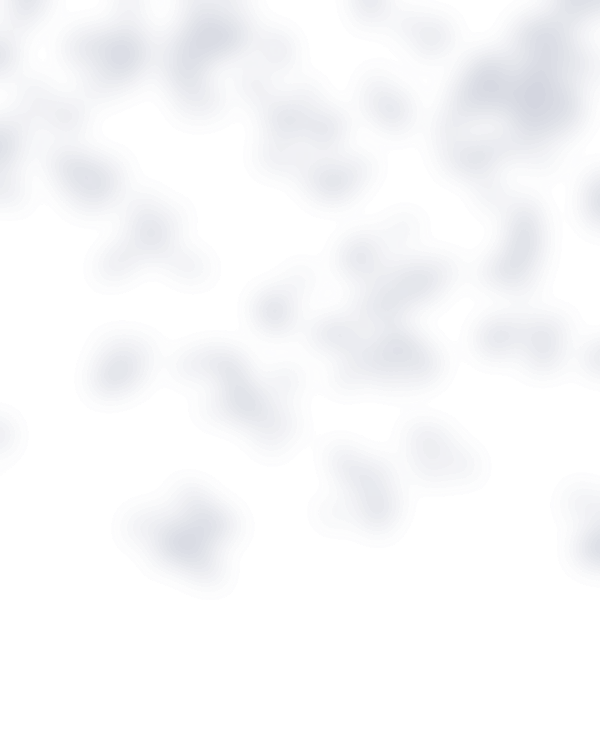
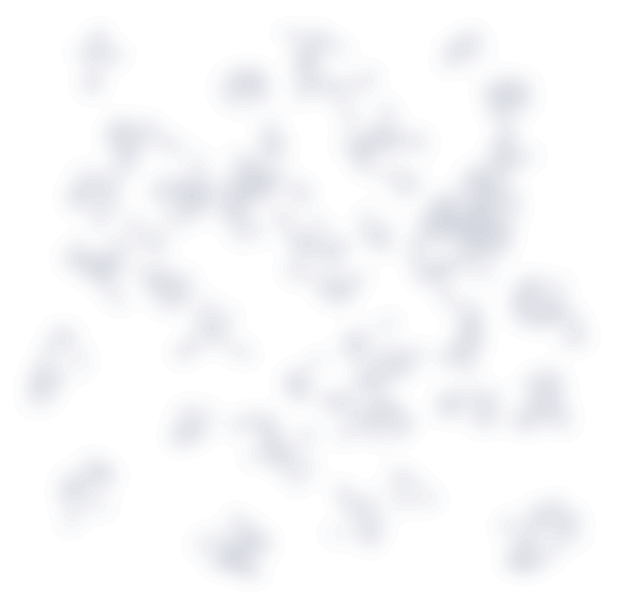
No leaf-shadow edges; the sun comes out on load
The leaf shadows sat on images that stopped exactly at the top of the
page, so their edge swung into view, and the light images popped in late.

- Each leaf layer now sits on a canvas that reaches well past the page on
  every side and fades out before its edges, so swaying can never show
  one. Scanning the light alone at the sway extremes, the largest step
  between neighbouring pixels is now 16 levels (soft leaf edges), down
  from 54 at the old cut-off.
- The ambient light is now drawn in CSS, so it's there at once. Only the
  window's patch of sun (patch.webp, replacing scene.webp), its glow and
  the leaves are images, all preloaded with the stylesheet and smaller:
  61 KB together, down from 115 KB. The texture is preloaded too.
- On load the room starts overcast, then the sun comes out from behind a
  cloud: the patch, glow and leaves fade up over 2.2s, starting 0.5s in,
  as the type settles. On a fast 3G connection the images arrive by about
  1s, before the sun starts to show.
- White text still keeps at least 4.6:1 contrast everywhere.

The link preview image and home-screen icon are re-rendered.

Claude-Session: https://claude.ai/code/session_017UFRXYQtUMif1BB6ZR5QC6

diff --git a/styles.css b/styles.css
@@ -133,10 +133,19 @@ body {
    as in real sun. White type stays white there.
 
    It's part of the scene, so it scrolls with the mat. On narrow screens the
-   scene keeps a minimum size, anchored to the window side. */
+   scene keeps a minimum size, anchored to the window side. Scene sizes are
+   in thousandths of its width.
+
+   On load the room starts overcast (the ambient light is drawn here, so
+   it's there at once), then the sun comes out from behind a cloud: the
+   window's patch of sun, its glow and the leaf shadows fade up together as
+   the type settles. The images are preloaded and small, so they're almost
+   always in by then. The leaves sit on canvases that reach well past the
+   page and fade out before their edges, so swaying never shows an edge. */
 .light,
 .sun {
-  --scene: max(100%, 900px);
+  --scene: max(100cqw, 900px);
+  --sun-in: sun-in 2.2s ease-in-out 0.5s backwards;
   position: absolute;
   inset: 0;
   z-index: 5;
@@ -144,18 +153,37 @@ body {
   pointer-events: none;
 }
 
+/* Ambient light, a touch cooler and dimmer away from the window */
 .light {
   mix-blend-mode: multiply;
   background:
-    url("/light/scene.webp") right top / var(--scene) auto no-repeat,
+    radial-gradient(135% 108% at 110% -8%, rgb(184 187 204), rgb(182 186 203) 25%, rgb(180 184 200) 50%, rgb(177 181 197) 75%, rgb(176 180 196))
+      right top / var(--scene) calc(var(--scene) * 1.25) no-repeat,
     rgb(176 180 196);
 }
 
 .sun {
   mix-blend-mode: screen;
-  background:
-    url("/light/glow.webp") right top / var(--scene) auto no-repeat,
-    #000;
+  background: #000;
+}
+
+/* The window's patch of sun: warm light over the ambient, and its glow */
+.patch {
+  position: absolute;
+  top: 0;
+  right: 0;
+  width: var(--scene);
+  aspect-ratio: 4 / 5;
+  background: 0 0 / 100% 100% no-repeat;
+  animation: var(--sun-in);
+}
+
+.light .patch {
+  background-image: url("/light/patch.webp");
+}
+
+.sun .patch {
+  background-image: url("/light/glow.webp");
 }
 
 .light::before,
@@ -164,32 +192,40 @@ body {
 .sun::after {
   content: "";
   position: absolute;
-  top: 0;
-  right: 0;
-  width: var(--scene);
-  aspect-ratio: 4 / 5;
   background: 0 0 / 100% 100% no-repeat;
-  will-change: translate, rotate;
+  will-change: translate, rotate, opacity;
 }
 
-/* The tree outside: big soft dapples, swaying slowly */
+/* The tree outside: big soft dapples, swaying slowly. Canvas: x -200 to
+   1200, y -350 to 1000; it sways about (1100, -125). */
 .light::before,
 .sun::before {
+  top: calc(var(--scene) * -0.35);
+  right: calc(var(--scene) * -0.2);
+  width: calc(var(--scene) * 1.4);
+  height: calc(var(--scene) * 1.35);
   background-image: url("/light/far.webp");
-  transform-origin: 110% -10%;
+  transform-origin: 92.86% 16.67%;
   animation:
     dapple-sway 11s ease-in-out infinite alternate,
-    dapple-drift 7.3s ease-in-out infinite alternate;
+    dapple-drift 7.3s ease-in-out infinite alternate,
+    var(--sun-in);
 }
 
-/* The plant on the sill: sharper sprigs, swaying and fluttering */
+/* The plant on the sill: sharper sprigs, swaying and fluttering. Canvas:
+   x 350 to 1200, y -300 to 750; it sways about its base at (1040, 40). */
 .light::after,
 .sun::after {
+  top: calc(var(--scene) * -0.3);
+  right: calc(var(--scene) * -0.2);
+  width: calc(var(--scene) * 0.85);
+  height: calc(var(--scene) * 1.05);
   background-image: url("/light/near.webp");
-  transform-origin: 104% 3%;
+  transform-origin: 81.18% 32.38%;
   animation:
     leaf-sway 4.7s ease-in-out infinite alternate,
-    leaf-flutter 2.9s ease-in-out infinite alternate;
+    leaf-flutter 2.9s ease-in-out infinite alternate,
+    var(--sun-in);
 }
 
 /* In the sun's glow the same leaves are black: they block it */
@@ -694,6 +730,13 @@ main,
 
 .colophon p {
   --d: 0.5s;
+}
+
+/* The sun coming out from behind a cloud */
+@keyframes sun-in {
+  from {
+    opacity: 0;
+  }
 }
 
 @keyframes dapple-sway {

diff --git a/404.html b/404.html
@@ -15,10 +15,15 @@
 <link rel="preload" href="/fonts/trjn-davinci-semibold-trial.woff2" as="font" type="font/woff2" crossorigin>
 <link rel="preload" href="/fonts/instrument-sans.woff2" as="font" type="font/woff2" crossorigin>
 <link rel="stylesheet" href="/styles.css">
+<link rel="preload" href="/mat.svg" as="image" type="image/svg+xml">
+<link rel="preload" href="/light/patch.webp" as="image" type="image/webp">
+<link rel="preload" href="/light/glow.webp" as="image" type="image/webp">
+<link rel="preload" href="/light/near.webp" as="image" type="image/webp">
+<link rel="preload" href="/light/far.webp" as="image" type="image/webp">
 </head>
 <body>
-<div class="light" aria-hidden="true"></div>
-<div class="sun" aria-hidden="true"></div>
+<div class="light" aria-hidden="true"><div class="patch"></div></div>
+<div class="sun" aria-hidden="true"><div class="patch"></div></div>
 <header class="masthead">
   <a class="home panel" href="/" aria-label="mostlywork.ing"><svg class="logo" viewBox="0 0 482 502" aria-hidden="true" focusable="false"><path d="M192.482 0H289.518L278.383 250.545H203.617L192.482 0ZM192.482 501.089L203.617 250.545H278.383L289.518 501.089H192.482ZM0 162.257L49.3135 87.4918L259.294 221.116L221.911 279.178L0 162.257ZM482 162.257L260.089 279.178L222.706 221.116L432.686 87.4918L482 162.257ZM482 338.036L432.686 412.802L222.706 279.178L260.089 221.116L482 338.036ZM0 339.627L221.911 222.706L259.294 280.769L49.3135 414.393L0 339.627Z"/></svg></a>
 </header>

diff --git a/index.html b/index.html
@@ -27,10 +27,15 @@
 <link rel="preload" href="/fonts/trjn-davinci-semibold-trial.woff2" as="font" type="font/woff2" crossorigin>
 <link rel="preload" href="/fonts/instrument-sans.woff2" as="font" type="font/woff2" crossorigin>
 <link rel="stylesheet" href="/styles.css">
+<link rel="preload" href="/mat.svg" as="image" type="image/svg+xml">
+<link rel="preload" href="/light/patch.webp" as="image" type="image/webp">
+<link rel="preload" href="/light/glow.webp" as="image" type="image/webp">
+<link rel="preload" href="/light/near.webp" as="image" type="image/webp">
+<link rel="preload" href="/light/far.webp" as="image" type="image/webp">
 </head>
 <body>
-<div class="light" aria-hidden="true"></div>
-<div class="sun" aria-hidden="true"></div>
+<div class="light" aria-hidden="true"><div class="patch"></div></div>
+<div class="sun" aria-hidden="true"><div class="patch"></div></div>
 <header class="masthead">
   <a class="home panel" href="/" aria-label="mostlywork.ing"><svg class="logo" viewBox="0 0 482 502" aria-hidden="true" focusable="false"><path d="M192.482 0H289.518L278.383 250.545H203.617L192.482 0ZM192.482 501.089L203.617 250.545H278.383L289.518 501.089H192.482ZM0 162.257L49.3135 87.4918L259.294 221.116L221.911 279.178L0 162.257ZM482 162.257L260.089 279.178L222.706 221.116L432.686 87.4918L482 162.257ZM482 338.036L432.686 412.802L222.706 279.178L260.089 221.116L482 338.036ZM0 339.627L221.911 222.706L259.294 280.769L49.3135 414.393L0 339.627Z"/></svg></a>
 </header>

diff --git a/README.md b/README.md
@@ -8,7 +8,7 @@ A static site with no build step, served by Vercel from the repository root.
 - `fonts/`: self-hosted [Instrument Sans](https://github.com/Instrument/instrument-sans), under the SIL Open Font License
 - `fonts/trjn-davinci-*-trial.woff2`: [TRJN DaVinci](http://virgileflores.com/typefoundry) by Virgile Flores: Semibold for the main heading, Italic for project names. **This is the trial version**: replace it with licensed web font files before the site goes live.
 - `mat.svg`: the cutting mat's wear (grain, specks and fine scratches), tiled over the page
-- `light/`: the window light that falls across the mat. `scene.webp` is the ambient light and the patch of sun through the window (multiplied over the page), `glow.webp` the sun's lift (screened over it), and `near.webp` and `far.webp` the leaf shadows from a plant on the sill and a tree outside, which sway
+- `light/`: the window light that falls across the mat. `patch.webp` is the patch of sun through the window (over the ambient light, which is drawn in CSS, and multiplied over the page), `glow.webp` the sun's lift (screened over it), and `near.webp` and `far.webp` the leaf shadows from a plant on the sill and a tree outside, which sway
 - `og.png`: the link preview image (1200×630), a render of the homepage's headline
 - `apple-touch-icon.png`, `favicon.*`: icons
 
